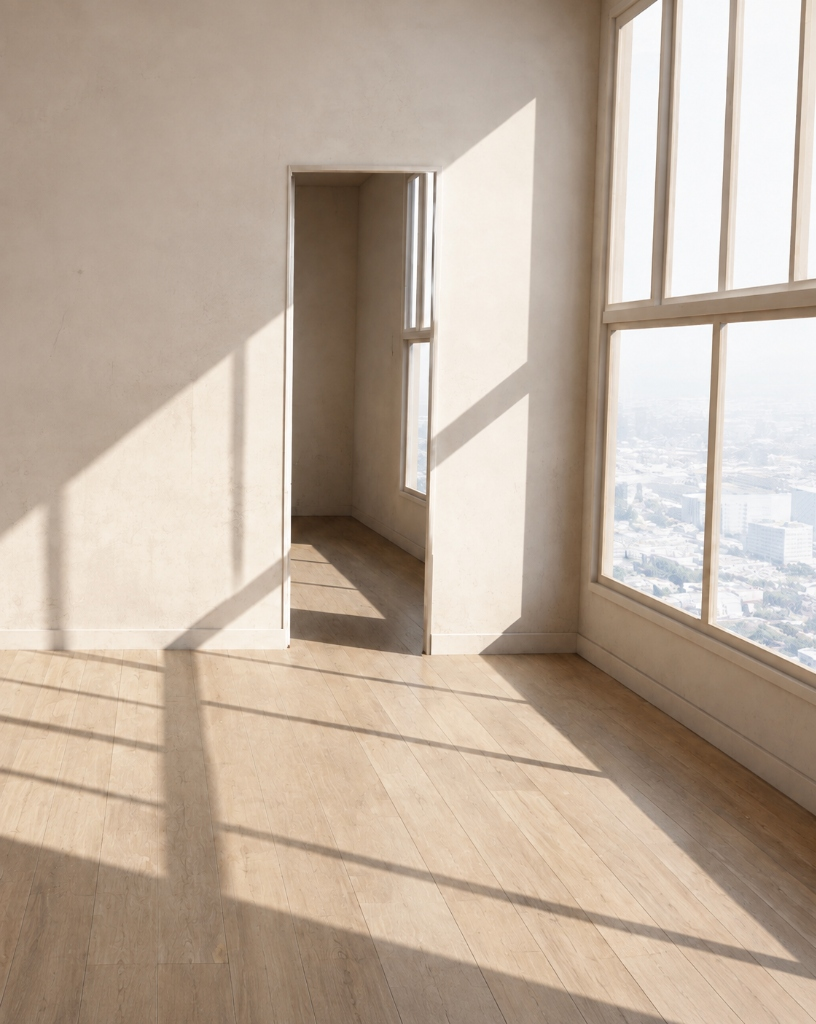
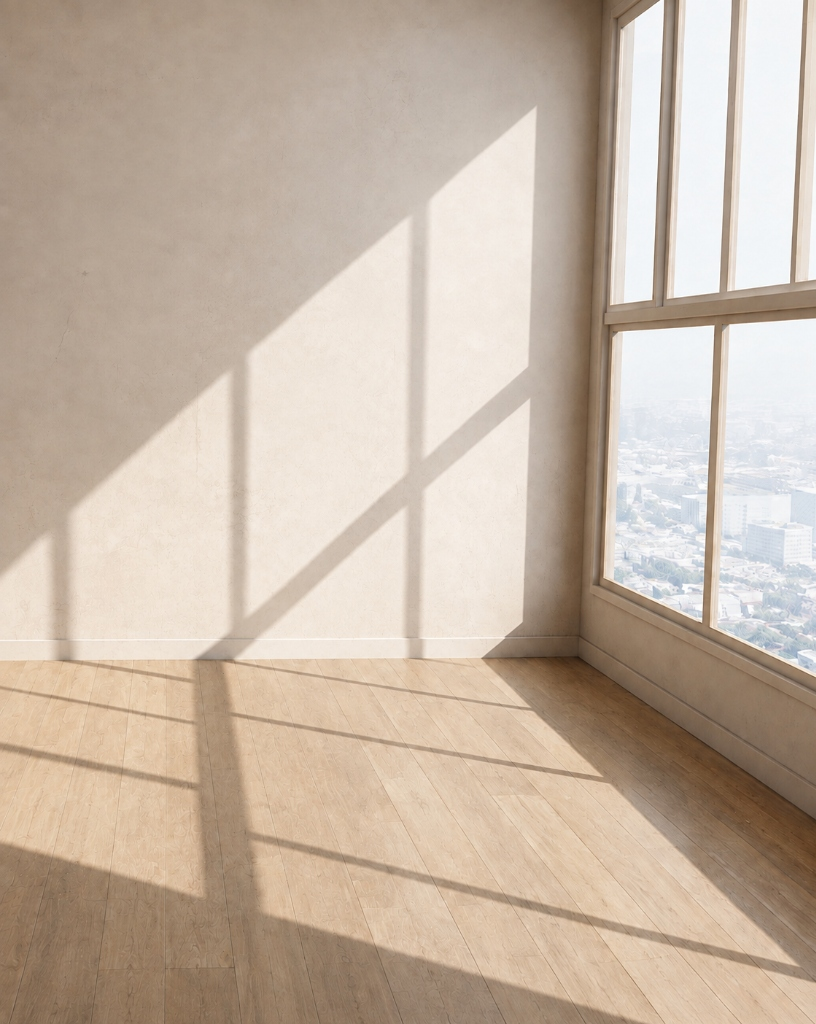
fix(ui): refinar navbar, menu mobile e sincronização de scroll
- Tornar header transparente na Hero e com blur/translucidez no scroll
- Atualizar foto do Antes no comparador de ambientes
- Estilizar botões de navegação no formato cápsula/pílula minimalista
- Manter links editoriais grandes no menu mobile e botão em pílula
- Corrigir reset de rolagem do Lenis ao navegar entre rotas
- Otimizar responsividade mobile, tablet e desktop

diff --git a/src/components/Header/Header.css b/src/components/Header/Header.css
@@ -10,75 +10,115 @@
 }
 
 .header--solid {
-  background: rgba(17, 17, 15, 0.92);
-  -webkit-backdrop-filter: blur(8px);
-  backdrop-filter: blur(8px);
+  background: rgba(17, 17, 15, 0.85);
+  -webkit-backdrop-filter: blur(12px);
+  backdrop-filter: blur(12px);
   border-bottom: 1px solid var(--color-hairline);
+}
+
+.header--menu-open {
+  background: #11110F;
+  border-bottom-color: transparent;
 }
 
 .header__bar {
   display: flex;
   align-items: center;
   justify-content: space-between;
-  padding-block: 1.5rem;
+  padding-block: clamp(1rem, 2.5vw, 1.35rem);
+  padding-inline: clamp(1.25rem, 4vw, 2.75rem);
 }
 
 .header__logo {
   font-family: var(--font-display);
-  font-size: var(--step-0);
+  font-size: clamp(1.3rem, 1.15rem + 0.8vw, 1.75rem);
   letter-spacing: 0.02em;
+  margin-left: 0;
+  white-space: nowrap;
+}
+
+@media (min-width: 860px) {
+  .header__logo {
+    font-size: clamp(1.4rem, 1.27rem + 0.75vw, 1.9rem);
+    margin-left: 32px;
+  }
 }
 
 .header__nav {
   display: none;
   align-items: center;
-  gap: 2.25rem;
+  gap: clamp(0.5rem, 1vw, 0.75rem);
 }
 
 .header__link {
+  font-family: var(--font-body);
   font-size: var(--step--1);
   color: var(--color-white-soft);
-  position: relative;
-  padding-bottom: 0.2rem;
-  transition: color var(--dur-fast) var(--ease-editorial);
+  text-decoration: none;
+  padding: 0.5rem 1.15rem;
+  border-radius: 9999px;
+  border: 1px solid rgba(242, 239, 232, 0.18);
+  background: rgba(242, 239, 232, 0.03);
+  display: inline-flex;
+  align-items: center;
+  justify-content: center;
+  line-height: 1;
+  letter-spacing: 0.01em;
+  white-space: nowrap;
+  transition: all var(--dur-fast) var(--ease-editorial);
 }
 
-.header__link.is-active,
 .header__link:hover,
 .header__link:focus-visible {
   color: var(--color-white);
+  background: rgba(242, 239, 232, 0.09);
+  border-color: rgba(242, 239, 232, 0.4);
 }
 
-.header__link.is-active::after {
-  content: '';
-  position: absolute;
-  left: 0;
-  right: 0;
-  bottom: -2px;
-  height: 1px;
+.header__link.is-active {
+  color: var(--color-black);
+  background: var(--color-white);
+  border-color: var(--color-white);
+}
+
+.header__link--cta {
+  background: rgba(138, 107, 75, 0.18);
+  border-color: rgba(138, 107, 75, 0.45);
+  color: var(--color-white);
+  margin-left: 0.25rem;
+}
+
+.header__link--cta:hover {
   background: var(--color-wood);
-}
-
-.header__cta {
-  margin-left: 0.5rem;
+  border-color: var(--color-wood);
+  color: var(--color-white);
 }
 
 .header__toggle {
-  background: none;
-  border: none;
+  background: rgba(242, 239, 232, 0.04);
+  border: 1px solid rgba(242, 239, 232, 0.18);
+  border-radius: 9999px;
   color: var(--color-white);
   display: inline-flex;
   align-items: center;
   justify-content: center;
   width: 44px;
   height: 44px;
-  z-index: 210;
+  z-index: 220;
+  cursor: pointer;
+  transition: all var(--dur-fast) var(--ease-editorial);
+}
+
+.header__toggle:hover {
+  background: rgba(242, 239, 232, 0.1);
+  border-color: rgba(242, 239, 232, 0.4);
 }
 
 @media (min-width: 860px) {
   .header__nav {
     display: flex;
   }
+
   .header__toggle {
     display: none;
   }
@@ -88,37 +128,43 @@
 .mobile-menu {
   position: fixed;
   inset: 0;
-  background: var(--color-black);
+  background: #11110F;
+  z-index: 210;
   display: flex;
   flex-direction: column;
   justify-content: space-between;
-  padding: 7rem var(--gutter) 3rem;
+  padding: 6.5rem clamp(1.25rem, 5vw, 2.5rem) 2.5rem;
+  overflow-y: auto;
   visibility: hidden;
   opacity: 0;
-  transition: opacity var(--dur-medium) var(--ease-editorial), visibility 0s linear var(--dur-medium);
+  transition: opacity var(--dur-fast) var(--ease-editorial), visibility 0s linear var(--dur-fast);
 }
 
 .mobile-menu.is-open {
   visibility: visible;
   opacity: 1;
-  transition: opacity var(--dur-medium) var(--ease-editorial);
+  transition: opacity var(--dur-fast) var(--ease-editorial);
 }
 
 .mobile-menu__nav {
   display: flex;
   flex-direction: column;
   gap: 0.5rem;
+  width: 100%;
 }
 
 .mobile-menu__link {
   font-family: var(--font-display);
-  font-size: clamp(2.2rem, 10vw, 3.2rem);
+  font-size: clamp(2.2rem, 9vw, 3.2rem);
   color: var(--color-white);
-  padding-block: 0.35rem;
+  text-decoration: none;
+  padding-block: 0.5rem;
   border-bottom: 1px solid var(--color-hairline);
+  display: block;
+  width: 100%;
   opacity: 0;
-  transform: translateY(16px);
-  transition: opacity var(--dur-fast) var(--ease-editorial), transform var(--dur-fast) var(--ease-editorial);
+  transform: translateY(12px);
+  transition: opacity var(--dur-fast) var(--ease-editorial), transform var(--dur-fast) var(--ease-editorial), color var(--dur-fast) var(--ease-editorial);
 }
 
 .mobile-menu.is-open .mobile-menu__link {
@@ -126,19 +172,47 @@
   transform: translateY(0);
 }
 
+.mobile-menu__link:hover,
+.mobile-menu__link.is-active {
+  color: var(--color-white);
+  border-color: var(--color-white);
+}
+
 .mobile-menu__footer {
   display: flex;
   flex-direction: column;
   gap: 1.25rem;
   align-items: flex-start;
+  padding-top: 2rem;
   opacity: 0;
-  transform: translateY(16px);
+  transform: translateY(12px);
   transition: opacity var(--dur-fast) var(--ease-editorial), transform var(--dur-fast) var(--ease-editorial);
 }
 
 .mobile-menu.is-open .mobile-menu__footer {
   opacity: 1;
   transform: translateY(0);
+}
+
+.mobile-menu__footer .btn-solid {
+  border-radius: 9999px;
+  padding: 0.85rem 1.8rem;
+  font-family: var(--font-body);
+  font-size: var(--step--1);
+  letter-spacing: 0.02em;
+  border: 1px solid var(--color-white);
+  background: var(--color-white);
+  color: var(--color-black);
+  display: inline-flex;
+  align-items: center;
+  justify-content: center;
+  text-decoration: none;
+  transition: all var(--dur-fast) var(--ease-editorial);
+}
+
+.mobile-menu__footer .btn-solid:hover {
+  background: transparent;
+  color: var(--color-white);
 }
 
 .mobile-menu__meta {

diff --git a/src/pages/Home/Home.tsx b/src/pages/Home/Home.tsx
@@ -122,7 +122,7 @@ export default function Home() {
       </section>
 
       {/* PROJETOS SELECIONADOS */}
-      <section className="section selected-projects">
+      <section className="section selected-projects" id="projetos">
         <div className="container">
           <div className="section-head" data-reveal-fade>
             <span className="eyebrow">Projetos selecionados</span>
@@ -192,7 +192,7 @@ export default function Home() {
       </section>
 
       {/* SOBRE RESUMIDO */}
-      <section className="section about-summary container">
+      <section className="section about-summary container" id="sobre">
         <div className="about-summary__image" data-reveal-fade>
           <img
             src="https://images.unsplash.com/photo-1497366216548-37526070297c?q=80&w=1400&auto=format&fit=crop"
@@ -210,7 +210,7 @@ export default function Home() {
       </section>
 
       {/* CHAMADA FINAL */}
-      <section className="final-cta">
+      <section className="final-cta" id="contato">
         <div className="container final-cta__inner" data-reveal-fade>
           <h2 className="final-cta__title">Todo espaço começa com uma conversa.</h2>
           <a

diff --git a/src/components/SmoothScroll/SmoothScroll.tsx b/src/components/SmoothScroll/SmoothScroll.tsx
@@ -1,4 +1,5 @@
 import { useEffect, useRef, type ReactNode } from 'react'
+import { useLocation } from 'react-router-dom'
 import Lenis from 'lenis'
 import gsap from 'gsap'
 import ScrollTrigger from 'gsap/ScrollTrigger'
@@ -7,6 +8,7 @@ gsap.registerPlugin(ScrollTrigger)
 
 export default function SmoothScroll({ children }: { children: ReactNode }) {
   const lenisRef = useRef<Lenis | null>(null)
+  const location = useLocation()
 
   useEffect(() => {
     const prefersReducedMotion = window.matchMedia('(prefers-reduced-motion: reduce)').matches
@@ -32,6 +34,16 @@ export default function SmoothScroll({ children }: { children: ReactNode }) {
       lenisRef.current = null
     }
   }, [])
+
+  useEffect(() => {
+    if (lenisRef.current) {
+      lenisRef.current.scrollTo(0, { immediate: true })
+    }
+    window.scrollTo(0, 0)
+    setTimeout(() => {
+      ScrollTrigger.refresh()
+    }, 80)
+  }, [location.pathname])
 
   return <>{children}</>
 }

diff --git a/src/components/Header/Header.tsx b/src/components/Header/Header.tsx
@@ -34,7 +34,7 @@ export default function Header() {
 
   return (
     <header className={`header ${scrolled ? 'header--solid' : ''} ${menuOpen ? 'header--menu-open' : ''}`}>
-      <div className="header__bar container">
+      <div className="header__bar">
         <Link to="/" className="header__logo" onClick={() => setMenuOpen(false)}>
           Atelier Lume
         </Link>
@@ -50,7 +50,7 @@ export default function Header() {
             </NavLink>
           ))}
           <a
-            className="btn-line header__cta"
+            className="header__link header__link--cta"
             href={buildWhatsappLink('Olá, Atelier Lume! Conheci o trabalho de vocês pelo site e gostaria de conversar sobre um projeto.')}
             target="_blank"
             rel="noreferrer"
